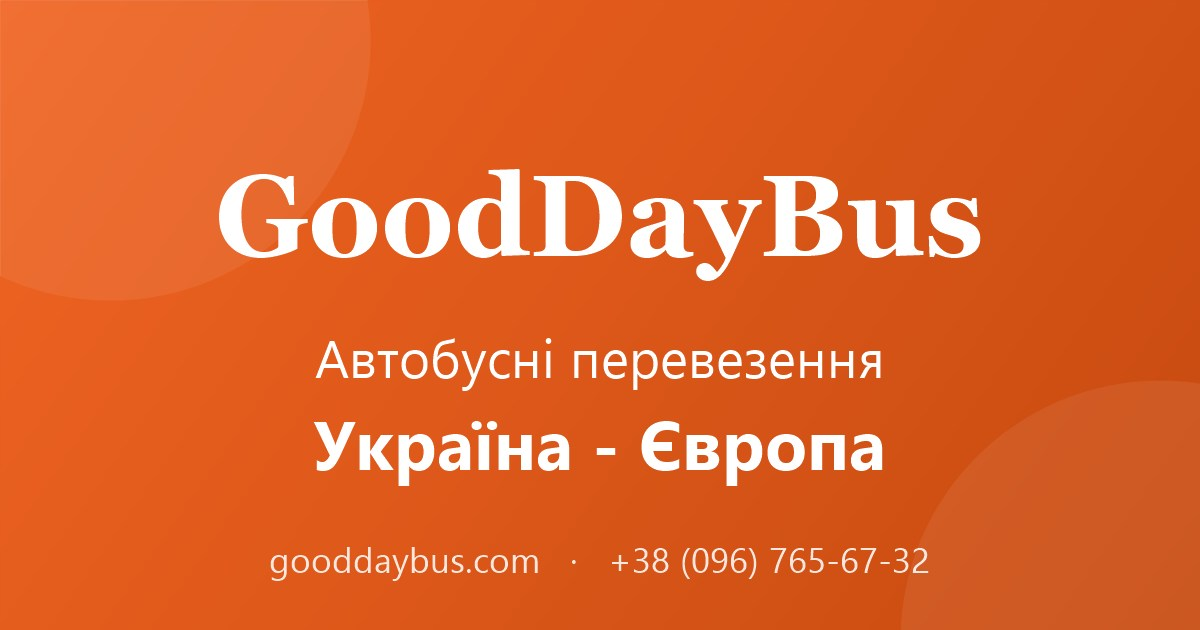
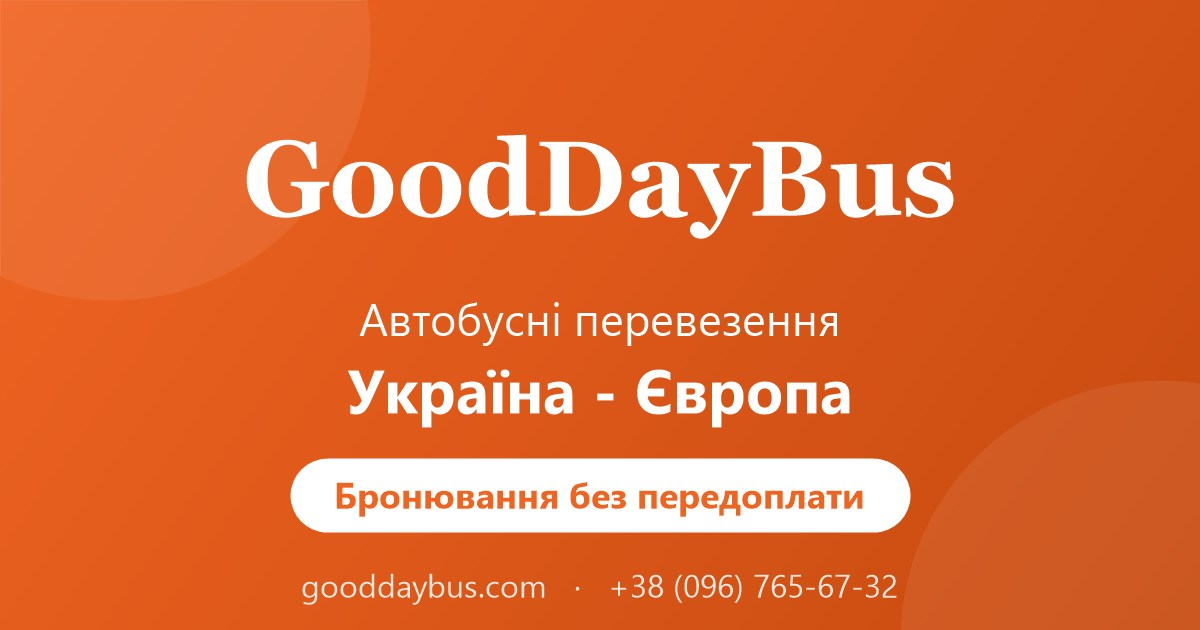
seo: shorter title, og:site_name, og-image with cta

Changed region(s): [[0.2158, 0.4825, 0.7708, 0.9651], [0.185, 0.2111, 0.8325, 0.4524], [0.2158, 0.8746, 0.4625, 0.9651]]

diff --git a/public/index.html b/public/index.html
@@ -4,16 +4,19 @@
     <meta charset="UTF-8">
     <meta name="viewport" content="width=device-width, initial-scale=1.0">
     <meta name="google-site-verification" content="a6A7r5AZXOGr3MyaNht_kKak8jUV5x-8YxCXUtGyMjM">
-    <title>Автобусні квитки Україна - Європа | Бронювання рейсів GoodDayBus</title>
+    <title>Автобусні квитки Україна - Європа | GoodDayBus</title>
     <meta name="description" content="Пасажирські перевезення Україна - Європа та Європа - Україна. Знайдіть рейс за хвилину, бронювання без передоплати - оплата водієві. Щодня 7:00-23:00.">
     <link rel="canonical" href="https://gooddaybus.com/">
 
     <!-- Open Graph: як посилання виглядає у Viber/Telegram/WhatsApp -->
     <meta property="og:type" content="website">
+    <meta property="og:site_name" content="GoodDayBus">
     <meta property="og:title" content="GoodDayBus - автобусні квитки Україна - Європа">
     <meta property="og:description" content="Знайдіть зручний рейс за хвилину. Бронювання без передоплати - оплата водієві.">
     <meta property="og:url" content="https://gooddaybus.com/">
     <meta property="og:image" content="https://gooddaybus.com/og-image.jpg">
+    <meta property="og:image:width" content="1200">
+    <meta property="og:image:height" content="630">
     <meta property="og:locale" content="uk_UA">
     <meta name="twitter:card" content="summary_large_image">
 
